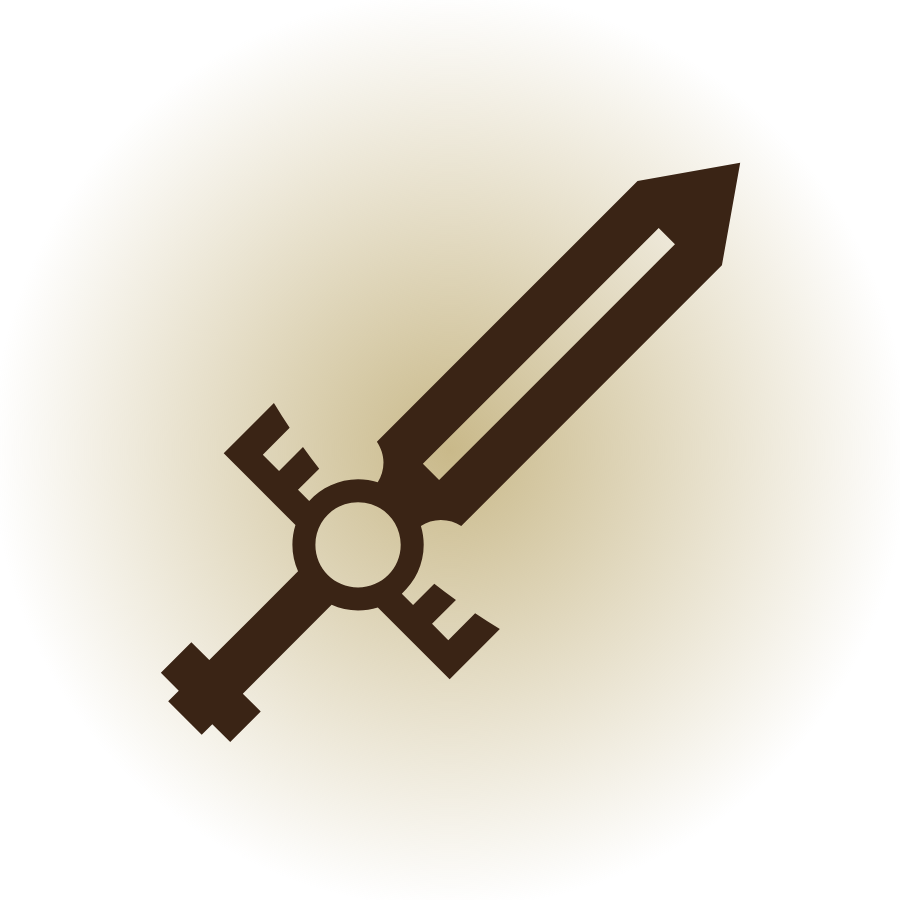
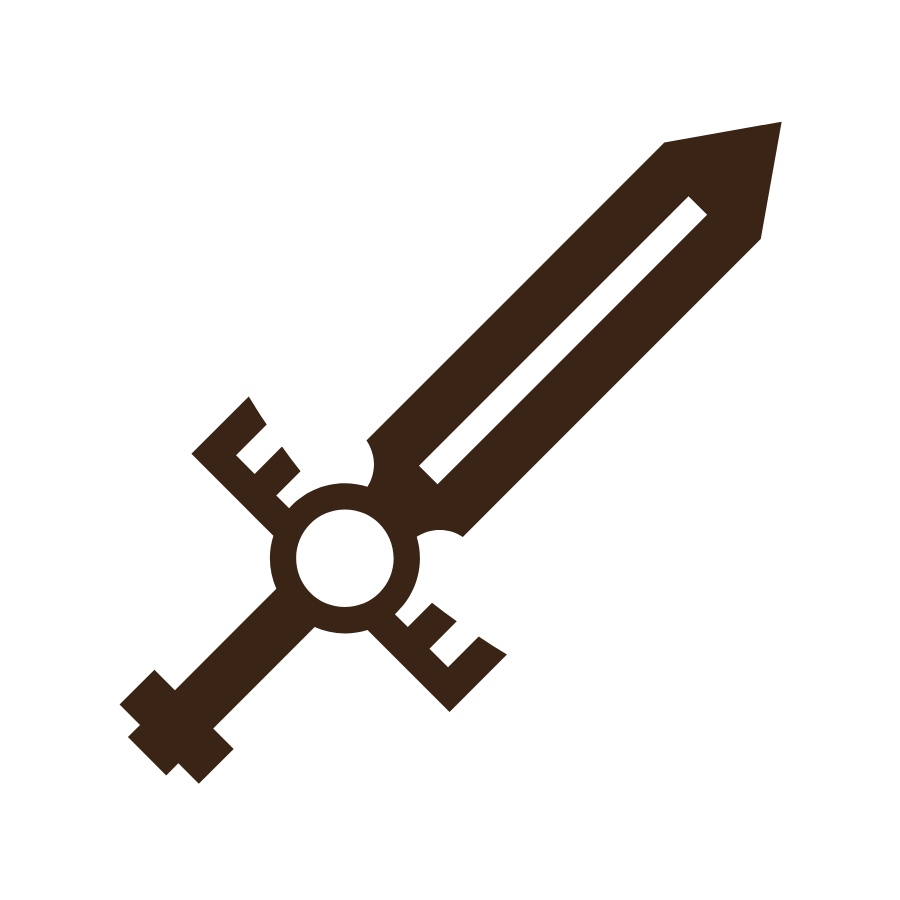
Rework frame layering + add subtitle, matching the Tormenta20 reference
- Art now renders on top of the (fully opaque) frame with a CSS drop-shadow,
  instead of behind a transparent cutout. Simpler to author in tools like
  Canva (no alpha-hole compositing needed) and matches how the reference
  card's item art actually floats on the parchment.
- Footer switched from boxed/divided cells to a flat inline row --
  "icon Rótulo: valor | icon Rótulo: valor | ..." -- matching the reference,
  no background box baked into the frame needed for it.
- Added subtitle rendering (title-slot now stacks título + ✦ subtítulo ✦),
  using the Card.subtitulo field that existed in the model but wasn't wired
  into the template yet.
- Placeholder art regenerated with true transparency (was an opaque
  gradient sticker before) so the new drop-shadow layering reads correctly.

Claude-Session: https://claude.ai/code/session_0158PaoDdzLumbMQ28oJrLaV

diff --git a/src/card.html.ts b/src/card.html.ts
@@ -95,27 +95,37 @@ export function buildCardHtml(card: Card): string {
   const artUrl = fileUrl(path.join(ROOT_DIR, card.imagem));
   const frameUrl = fileUrl(PATHS.frame);
 
-  const cellWidthPx = Math.floor(footerBox.widthPx / FOOTER_CELL_COUNT);
+  // One flat row: icon + "Rótulo: valor", pairs separated by a plain "|" —
+  // no boxes/dividers, matching the reference (text sits directly on the
+  // parchment, not in bordered cells).
+  // Fixed budget reserved for the two flourish glyphs flanking the subtitle,
+  // so the subtitle's own fit-measurement wrapper has a real (non-shrink-wrap) width.
+  const subtitleFlourishBudgetPx = 40;
+  const subtitleTextWidthPx = titleBox.widthPx - TEXT_SAFE_PADDING_PX * 2 - subtitleFlourishBudgetPx * 2;
+
+  const footerSeparatorPx = 16;
+  const cellWidthPx = Math.floor(
+    (footerBox.widthPx - footerSeparatorPx * (FOOTER_CELL_COUNT - 1)) / FOOTER_CELL_COUNT,
+  );
   const footerIconPx = 22;
   const footerGapPx = 6;
-  const footerVerticalInsetPx = 4;
-  // Fixed (not shrink-to-fit) box for the label+value stack, so the autofit
-  // measurement below has a real ceiling to compare against instead of an
-  // auto-sized parent that would always "fit" its own content.
+  // Fixed (not shrink-to-fit) box for the "Rótulo: valor" text, so the
+  // autofit measurement has a real ceiling instead of an auto-sized parent
+  // that would always "fit" its own content.
   const footerTextWidthPx = cellWidthPx - footerIconPx - footerGapPx - TEXT_SAFE_PADDING_PX * 2;
-  const footerTextHeightPx = footerBox.heightPx - footerVerticalInsetPx * 2;
 
   const footerCells = Array.from({ length: FOOTER_CELL_COUNT }, (_, i) => {
     const attr = resolveFooterAttr(card, i);
     const iconUrl = attr.icone ? fileUrl(path.join(PATHS.icons, attr.icone)) : "";
+    const separator = i < FOOTER_CELL_COUNT - 1 ? `<span class="footer-separator">|</span>` : "";
     return `
       <div class="footer-cell" style="width:${cellWidthPx}px;">
         ${iconUrl ? `<img class="footer-icon" src="${iconUrl}" alt="" />` : ""}
-        <div class="footer-text" style="width:${footerTextWidthPx}px;height:${footerTextHeightPx}px;">
-          <div class="footer-label">${escapeHtml(attr.rotulo)}</div>
-          <div id="footer-value-${i}" class="footer-value" data-autofit="single" data-min="${FONTS.footerValue.minPx}" data-max="${FONTS.footerValue.maxPx}">${escapeHtml(attr.valor)}</div>
+        <div class="footer-text-box" style="width:${footerTextWidthPx}px;">
+          <div id="footer-value-${i}" class="footer-pair" data-autofit="single" data-min="${FONTS.footerValue.minPx}" data-max="${FONTS.footerValue.maxPx}">${escapeHtml(attr.rotulo)}: ${escapeHtml(attr.valor)}</div>
         </div>
       </div>
+      ${separator}
     `;
   }).join("\n");
 
@@ -139,6 +149,9 @@ export function buildCardHtml(card: Card): string {
     width: ${artBox.widthPx - ART_SAFE_PADDING_PX * 2}px;
     height: ${artBox.heightPx - ART_SAFE_PADDING_PX * 2}px;
     object-fit: contain;
+    /* Art sits ON TOP of the (fully opaque) frame, so it needs its own drop
+       shadow to read as sitting on the parchment -- matches the reference. */
+    filter: drop-shadow(3px 6px 6px rgba(20, 10, 0, 0.35));
   }
 
   .title-slot {
@@ -147,6 +160,8 @@ export function buildCardHtml(card: Card): string {
     width: ${titleBox.widthPx}px;
     height: ${titleBox.heightPx}px;
     padding: 0 ${TEXT_SAFE_PADDING_PX}px;
+    flex-direction: column;
+    gap: 2px;
   }
   .title-text {
     font-family: "Cinzel", serif;
@@ -156,6 +171,31 @@ export function buildCardHtml(card: Card): string {
     text-align: center;
     color: #2b1a0d;
     letter-spacing: 0.02em;
+  }
+  .subtitle-text {
+    font-family: "Cinzel", serif;
+    font-weight: ${FONTS.subtitulo.weight};
+    font-variation-settings: "wght" ${FONTS.subtitulo.weight};
+    white-space: nowrap;
+    text-align: center;
+    color: #2b1a0d;
+    letter-spacing: 0.08em;
+    text-transform: uppercase;
+  }
+  .subtitle-line {
+    display: flex;
+    align-items: center;
+    justify-content: center;
+    gap: 6px;
+  }
+  .subtitle-text-box {
+    display: flex;
+    align-items: center;
+    justify-content: center;
+  }
+  .subtitle-flourish {
+    color: rgba(43, 26, 13, 0.55);
+    flex-shrink: 0;
   }
 
   .price-slot {
@@ -207,47 +247,56 @@ export function buildCardHtml(card: Card): string {
     justify-content: center;
     gap: 6px;
     height: 100%;
-    padding: 0 ${TEXT_SAFE_PADDING_PX}px;
-    border-right: 1px solid rgba(43, 26, 13, 0.35);
   }
-  .footer-cell:last-child { border-right: none; }
   .footer-icon {
     width: 22px;
     height: 22px;
     flex-shrink: 0;
   }
-  .footer-text {
+  .footer-text-box {
     display: flex;
-    flex-direction: column;
-    align-items: flex-start;
-    justify-content: center;
-    line-height: 1.1;
+    align-items: center;
+    justify-content: flex-start;
     flex-shrink: 0;
   }
-  .footer-label {
+  .footer-pair {
     font-family: "Lora", serif;
-    font-weight: ${FONTS.footerLabel.weight};
-    font-size: ${FONTS.footerLabel.minPx}px;
-    color: #2b1a0d;
-    text-transform: uppercase;
-    letter-spacing: 0.03em;
-  }
-  .footer-value {
-    font-family: "Cinzel", serif;
     font-weight: ${FONTS.footerValue.weight};
     color: #2b1a0d;
     white-space: nowrap;
   }
+  .footer-separator {
+    display: inline-block;
+    width: ${footerSeparatorPx}px;
+    text-align: center;
+    font-family: "Lora", serif;
+    color: rgba(43, 26, 13, 0.4);
+    font-size: 22px;
+    line-height: 1;
+    flex-shrink: 0;
+  }
 </style>
 </head>
 <body>
+  <img class="layer" src="${frameUrl}" alt="" />
   <div class="layer art-layer">
     <img class="art-image" src="${artUrl}" alt="" />
   </div>
-  <img class="layer" src="${frameUrl}" alt="" />
 
   <div class="slot title-slot">
     <div class="title-text" data-autofit="single" data-min="${FONTS.title.minPx}" data-max="${FONTS.title.maxPx}">${escapeHtml(card.titulo)}</div>
+    ${
+      card.subtitulo
+        ? `
+    <div class="subtitle-line">
+      <span class="subtitle-flourish">&#10022;</span>
+      <div class="subtitle-text-box" style="width:${subtitleTextWidthPx}px;">
+        <div id="subtitle-text" class="subtitle-text" data-autofit="single" data-min="${FONTS.subtitulo.minPx}" data-max="${FONTS.subtitulo.maxPx}">${escapeHtml(card.subtitulo)}</div>
+      </div>
+      <span class="subtitle-flourish">&#10022;</span>
+    </div>`
+        : ""
+    }
   </div>
 
   <div class="slot price-slot">

diff --git a/scripts/generate-placeholder-art.ts b/scripts/generate-placeholder-art.ts
@@ -11,9 +11,12 @@ import { PATHS } from "../src/config.js";
 
 const ART_SIZE_PX = 900;
 
-const PLACEHOLDER_ARTS: { file: string; icon: string; bg: string }[] = [
-  { file: "espada-longa.png", icon: "broadsword.svg", bg: "#c9b98a" },
-  { file: "pocao-cura.png", icon: "potion-ball.svg", bg: "#a8c9a8" },
+// Fully transparent background: the art now floats directly on the parchment
+// (drawn on top of the frame, with a CSS drop-shadow), so it needs real alpha
+// around the item silhouette rather than a filled backing shape.
+const PLACEHOLDER_ARTS: { file: string; icon: string }[] = [
+  { file: "espada-longa.png", icon: "broadsword.svg" },
+  { file: "pocao-cura.png", icon: "potion-ball.svg" },
 ];
 
 async function main(): Promise<void> {
@@ -21,13 +24,12 @@ async function main(): Promise<void> {
   const browser = await chromium.launch();
   try {
     const page = await browser.newPage({ viewport: { width: ART_SIZE_PX, height: ART_SIZE_PX }, deviceScaleFactor: 1 });
-    for (const { file, icon, bg } of PLACEHOLDER_ARTS) {
+    for (const { file, icon } of PLACEHOLDER_ARTS) {
       const svg = await fs.readFile(path.join(PATHS.icons, icon), "utf-8");
       const html = `<!DOCTYPE html><html><head><style>
         * { margin:0; padding:0; }
-        body { width:${ART_SIZE_PX}px; height:${ART_SIZE_PX}px; display:flex; align-items:center; justify-content:center;
-               background: radial-gradient(circle, ${bg} 0%, transparent 72%); }
-        svg { width:70%; height:70%; }
+        body { width:${ART_SIZE_PX}px; height:${ART_SIZE_PX}px; display:flex; align-items:center; justify-content:center; }
+        svg { width:80%; height:80%; }
       </style></head><body>${svg}</body></html>`;
       await page.setContent(html, { waitUntil: "load" });
       const outPath = path.join(PATHS.art, file);

diff --git a/src/render.ts b/src/render.ts
@@ -188,7 +188,11 @@ async function autofitCard(page: Page, cardId: string): Promise<void> {
   await fitSingleLine(page, ".price-text", cardId, "price");
   await fitMultiLine(page, ".description-text", cardId, "description");
 
-  const footerValueCount = await page.locator(".footer-value").count();
+  if ((await page.locator("#subtitle-text").count()) > 0) {
+    await fitSingleLine(page, "#subtitle-text", cardId, "subtitulo");
+  }
+
+  const footerValueCount = await page.locator(".footer-pair").count();
   for (let i = 0; i < footerValueCount; i++) {
     await fitSingleLine(page, `#footer-value-${i}`, cardId, `footer[${i}].valor`);
   }
